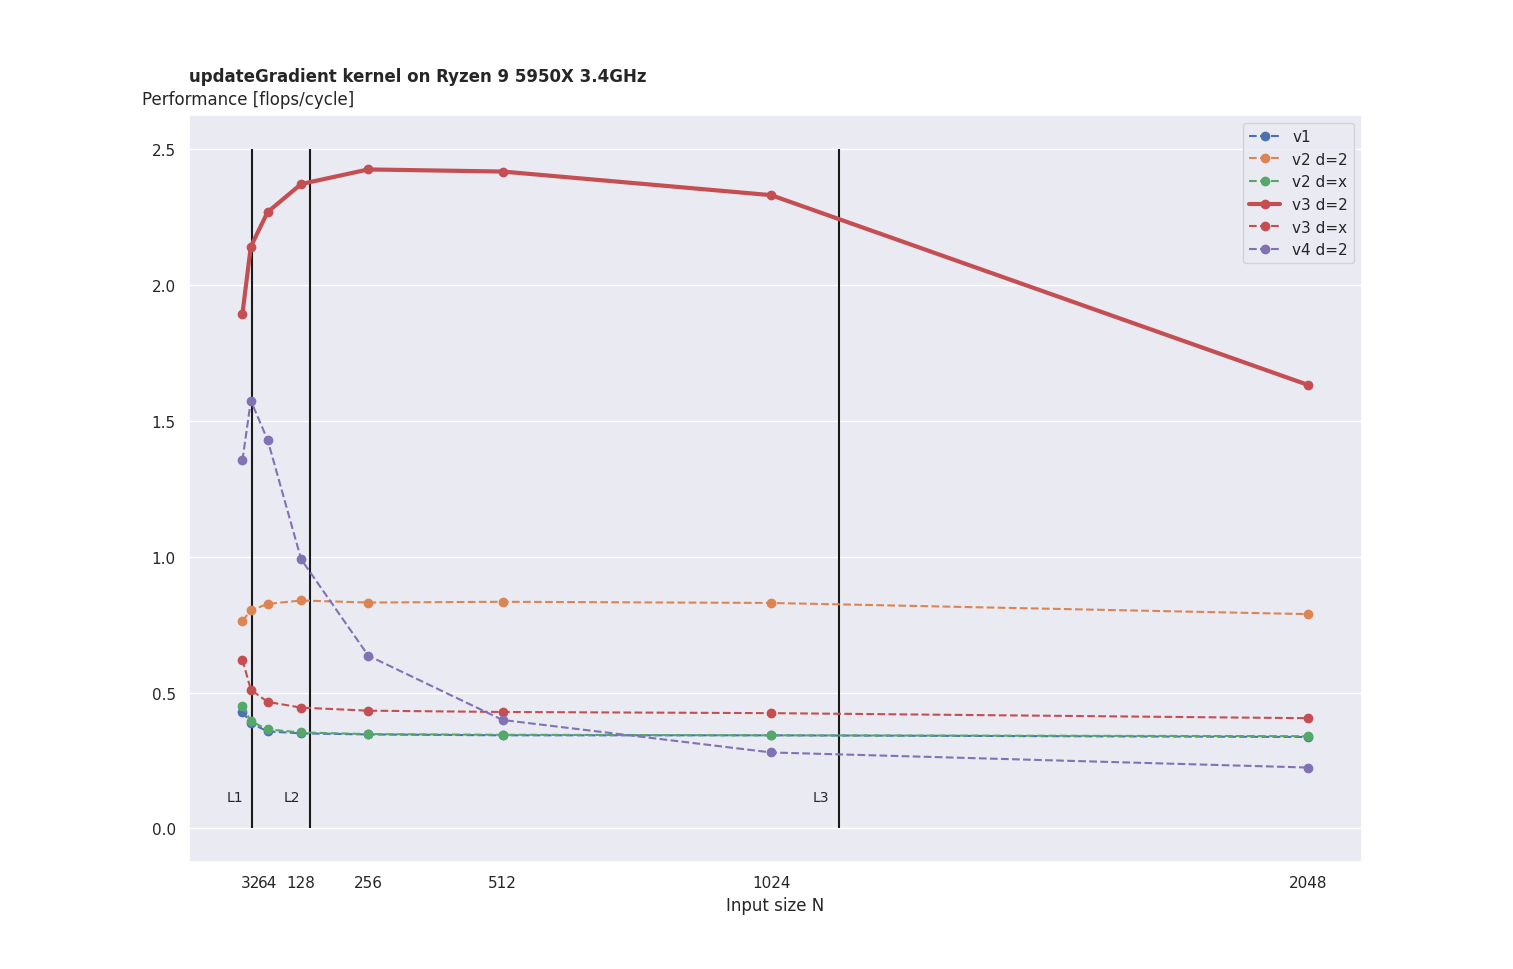
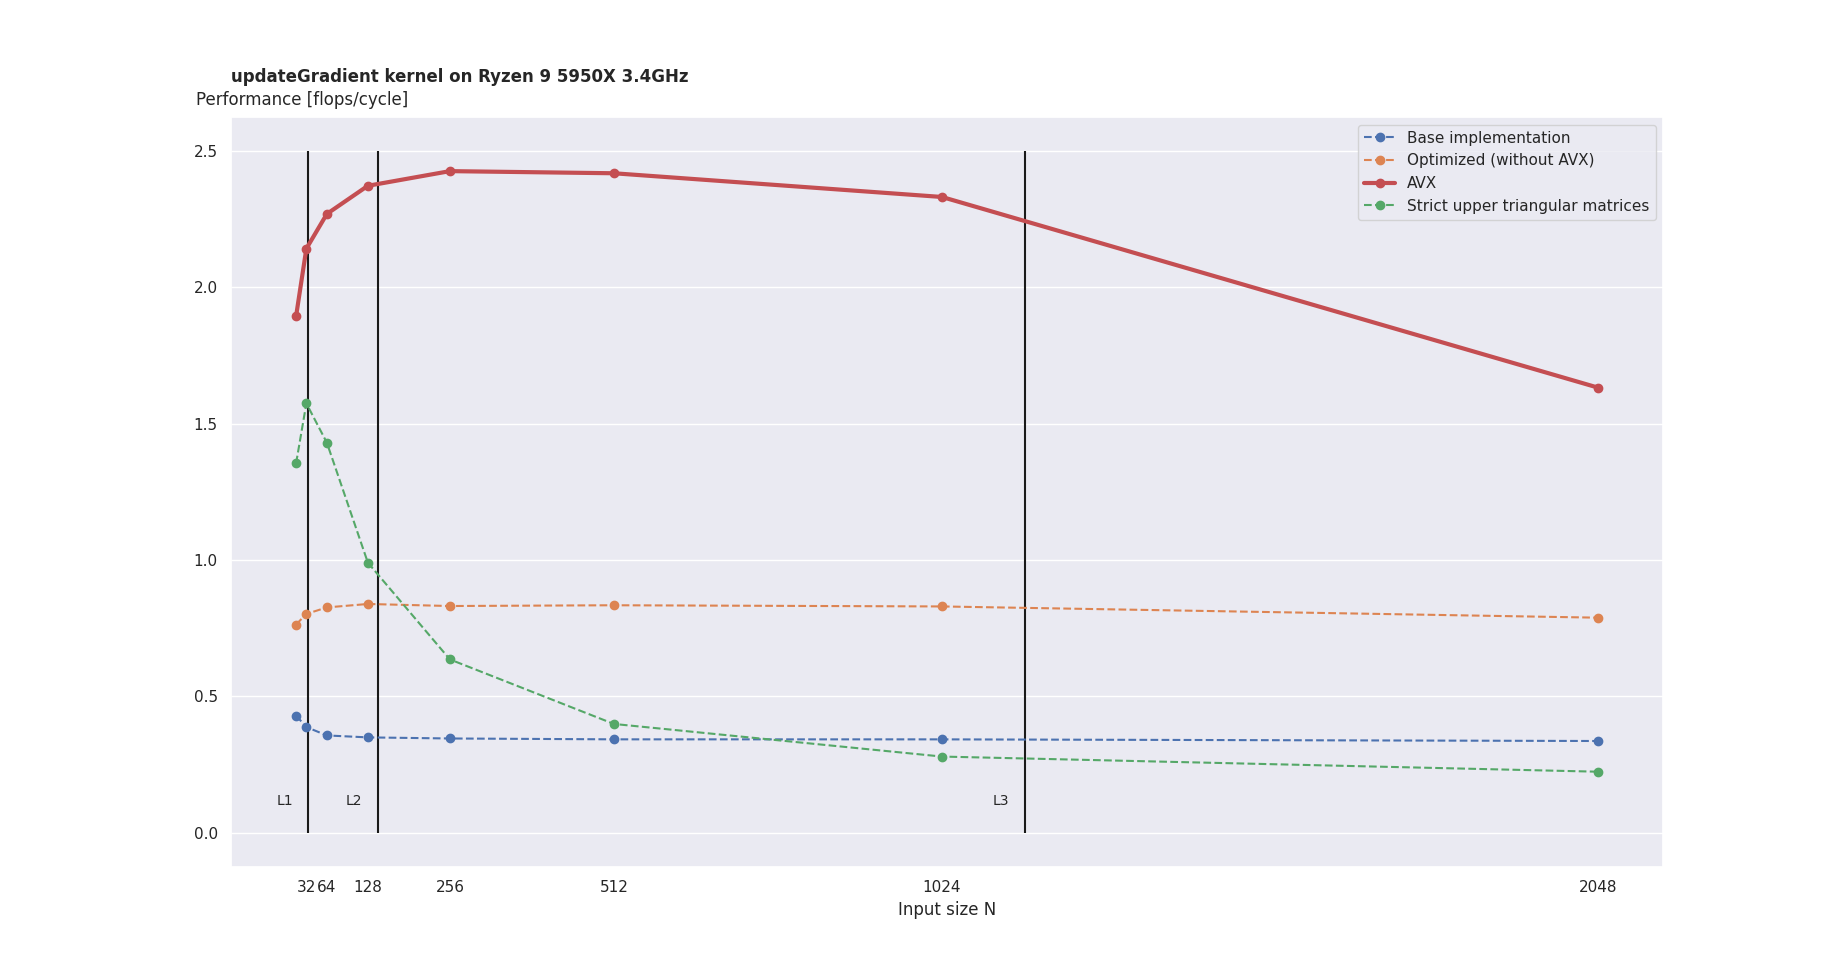
updating my branch

diff --git a/updgrd_zM_plot.py b/updgrd_zM_plot.py
@@ -10,30 +10,33 @@ ax = plt.gca()
 
 plt.rcParams['font.size'] = 10
 
-
+def flops(n):
+    return 14.5*n*n + 13.5*n + 2
 
 if __name__ == "__main__":
 
     #data
-    n   = np.loadtxt("performance_plot_v1.txt", dtype=np.float64, delimiter=',')[:,0]
-    i   = np.loadtxt("performance_plot_v1.txt", dtype=np.float64, delimiter=',')[:,1]
-    ii  = np.loadtxt("performance_plot_v2_2_outdim.txt", dtype=np.float64, delimiter=',')[:,1]
-    iii = np.loadtxt("performance_plot_v2_x_outdim.txt", dtype=np.float64, delimiter=',')[:,1]
-    iv  = np.loadtxt("performance_plot_v3_2_outdim.txt", dtype=np.float64, delimiter=',')[:,1]
-    v   = np.loadtxt("performance_plot_v3_x_outdim.txt", dtype=np.float64, delimiter=',')[:,1]
-    vi  = np.loadtxt("performance_plot_v4_2_outdim.txt", dtype=np.float64, delimiter=',')[:,1]
+    n   = np.loadtxt("updGr_zM_v1.txt", dtype=np.float64, delimiter=',')[:,0]
+    i1  = np.loadtxt("updGr_zM_v1.txt", dtype=np.float64, delimiter=',')[:,1]
+    i2  = np.loadtxt("updGr_zM_v2.txt", dtype=np.float64, delimiter=',')[:,1]
+    i32 = np.loadtxt("updGr_zM_v3_d2.txt", dtype=np.float64, delimiter=',')[:,1]
+    i3x = np.loadtxt("updGr_zM_v3_dx.txt", dtype=np.float64, delimiter=',')[:,1]
+    i4  = np.loadtxt("updGr_zM_v4_d2.txt", dtype=np.float64, delimiter=',')[:,1]
+    i5   = np.loadtxt("updGr_zM_v5_d2.txt", dtype=np.float64, delimiter=',')[:,1]
+    i7  = np.loadtxt("updGr_zM_v7_d2.txt", dtype=np.float64, delimiter=',')[:,1]
 
 
-    plt.plot(n, (12*n*n)/i  , 'o--', label='v1')
-    plt.plot(n, (12*(n*n + n))/ii , 'o--', label='v2 d=2')
-    plt.plot(n, (12*n*n + 3*n)/iii, 'o--', label='v2 d=x')
-    plt.plot(n, (12*(n*n + n))/iv , 'ro-', label='v3 d=2', linewidth=3.0)
-    plt.plot(n, (12*n*n + 3*n)/v  , 'o--', label='v3 d=x')
-    plt.plot(n, (12*(n*n + n))/vi , 'o--', label='v4 d=2')
+    plt.plot(n, (flops(n)-12*n)/i1  , 'o--', label='Base implementation')
+    #plt.plot(n, (flops(n)-12*n)/i2 , 'o--', label='v2 d=x')
+    plt.plot(n, flops(n)/i32, 'o--', label='All optimized kernels (without unwrapping)')
+    #plt.plot(n, flops(n)/i3x , 'o--', label='v3 d=x')
+    plt.plot(n, flops(n)/i4  , 'ro-', label='Combine and optimize kernels', linewidth=3.0)
+    #plt.plot(n, flops(n)/i5 , 'o--', label='v5 d=2')
+    plt.plot(n, flops(n)/i7 , 'o--', label='Strict upper triangular matrices')
 
-    plt.vlines(35, ymin=0.0, ymax=2.5)
-    plt.vlines(144, ymin=0.0, ymax=2.5)
-    plt.vlines(1153, ymin=0.0, ymax=2.5)
+    plt.vlines(35, ymin=0.0, ymax=3.0)
+    plt.vlines(144, ymin=0.0, ymax=3.0)
+    plt.vlines(1153, ymin=0.0, ymax=3.0)
 
     shift = 50
     plt.text(35 - shift, 0.1, 'L1')
@@ -48,7 +51,7 @@ if __name__ == "__main__":
     ax.yaxis.set_label_coords(0.05,1.01)
     ax.xaxis.grid()
 
-    plt.title('updateGradient kernel on Ryzen 9 5950X 3.4GHz', loc='left', pad=25, fontweight="bold")
+    plt.title('updateGradient_zeroMean kernel on Ryzen 9 5950X 3.4GHz', loc='left', pad=25, fontweight="bold")
     
     plt.legend()
     plt.plot()

diff --git a/updgrd_zM_roofline.py b/updgrd_zM_roofline.py
@@ -1,0 +1,74 @@
+import matplotlib
+import matplotlib.pyplot as plt
+import seaborn as sns
+import numpy as np
+import sys
+
+sns.set_theme()
+sns.set(font="sans serif")
+
+ax = plt.gca()
+
+plt.rcParams['font.size'] = 10
+
+def flops(n):
+    return 14.5*n*n + 13.5*n + 2
+
+if __name__ == "__main__":
+
+    #data
+    n   = np.loadtxt("updGr_zM_v1.txt", dtype=np.float64, delimiter=',')[:,0]
+    i1  = np.loadtxt("updGr_zM_v1.txt", dtype=np.float64, delimiter=',')[:,1]
+    i2  = np.loadtxt("updGr_zM_v2.txt", dtype=np.float64, delimiter=',')[:,1]
+    i32 = np.loadtxt("updGr_zM_v3_d2.txt", dtype=np.float64, delimiter=',')[:,1]
+    i3x = np.loadtxt("updGr_zM_v3_dx.txt", dtype=np.float64, delimiter=',')[:,1]
+    i4  = np.loadtxt("updGr_zM_v4_d2.txt", dtype=np.float64, delimiter=',')[:,1]
+    i5   = np.loadtxt("updGr_zM_v5_d2.txt", dtype=np.float64, delimiter=',')[:,1]
+    i7  = np.loadtxt("updGr_zM_v7_d2.txt", dtype=np.float64, delimiter=',')[:,1]
+
+
+    # plt.plot(n, (flops(n)-12*n)/i1  , 'o--', label='Base implementation')
+    # #plt.plot(n, (flops(n)-12*n)/i2 , 'o--', label='v2 d=x')
+    # plt.plot(n, flops(n)/i32, 'o--', label='All optimized kernels (without unwrapping)')
+    # #plt.plot(n, flops(n)/i3x , 'o--', label='v3 d=x')
+    # plt.plot(n, flops(n)/i4  , 'ro-', label='Combine and optimize kernels', linewidth=3.0)
+    # #plt.plot(n, flops(n)/i5 , 'o--', label='v5 d=2')
+    # plt.plot(n, flops(n)/i7 , 'o--', label='Strict upper triangular matrices')
+
+    pi   = 6            #Peak performance [flops/cycle]
+    beta = 6.474        #Memory bandwidth [bytes/cycle]
+
+    pi_beta = pi/beta   #[flops/cycle]
+
+    mb_intensity   = np.linspace(1.0/32.0, pi_beta, 2, dtype=np.float64)
+    mb_performance = beta*mb_intensity
+
+    cb_intensity   = np.linspace(pi_beta, 4.0, 2, dtype=np.float64)
+    cb_performance = np.full((2,), pi)
+
+    ax.plot(mb_intensity, mb_performance, 'k-')
+    ax.plot(cb_intensity, cb_performance, 'k-')
+
+    ax.set_yscale("log")
+    ax.set_xscale("log")
+
+    
+    ax.set_yticks([2e-4, 2e-3, 2e-2, 2e-1, 2e0, 2e1, 2e2, 2e3])
+    ax.set_xticks([2e-5, 2e-4, 2e-3, 2e-2, 2e-1, 2e0, 2e1, 2e2])
+
+    ax.get_xaxis().set_major_formatter(matplotlib.ticker.ScalarFormatter())
+    #ax.get_xaxis().get_major_formatter().labelOnlyBase = False
+
+    plt.xlabel('I(N) [flops/byte]')
+    plt.ylabel("P(N) [flops/cycle]", rotation=0)
+
+    ax.yaxis.set_label_coords(0.05,1.01)
+    ax.xaxis.grid()
+
+    plt.title('Roofline plot of updateGradient_zeroMean kernel', loc='left', pad=25, fontweight="bold")
+    
+    plt.legend()
+    plt.plot()
+    plt.show()
+    #plt.savefig(sys.argv[2])
+    plt.close()

diff --git a/updgrd_plot.py b/updgrd_plot.py
@@ -24,12 +24,12 @@ if __name__ == "__main__":
     vi  = np.loadtxt("performance_plot_v4_2_outdim.txt", dtype=np.float64, delimiter=',')[:,1]
 
 
-    plt.plot(n, (12*n*n)/i  , 'o--', label='v1')
-    plt.plot(n, (12*(n*n + n))/ii , 'o--', label='v2 d=2')
-    plt.plot(n, (12*n*n + 3*n)/iii, 'o--', label='v2 d=x')
-    plt.plot(n, (12*(n*n + n))/iv , 'ro-', label='v3 d=2', linewidth=3.0)
-    plt.plot(n, (12*n*n + 3*n)/v  , 'o--', label='v3 d=x')
-    plt.plot(n, (12*(n*n + n))/vi , 'o--', label='v4 d=2')
+    plt.plot(n, (12*n*n)/i  , 'o--', label='Base implementation')
+    plt.plot(n, (12*(n*n + n))/ii , 'o--', label='Optimized (without AVX)')
+    #plt.plot(n, (12*n*n + 3*n)/iii, 'o--', label='v2 d=x')
+    plt.plot(n, (12*(n*n + n))/iv , 'ro-', label='AVX', linewidth=3.0)
+    #plt.plot(n, (12*n*n + 3*n)/v  , 'o--', label='v3 d=x')
+    plt.plot(n, (12*(n*n + n))/vi , 'o--', label='Strict upper triangular matrices')
 
     plt.vlines(35, ymin=0.0, ymax=2.5)
     plt.vlines(144, ymin=0.0, ymax=2.5)
